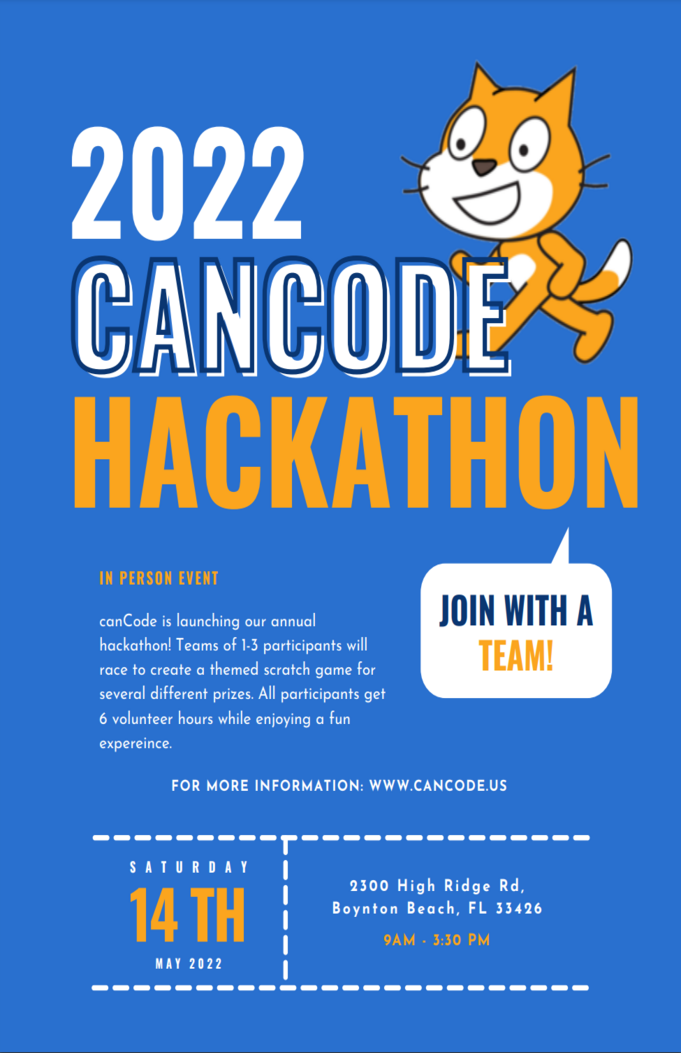
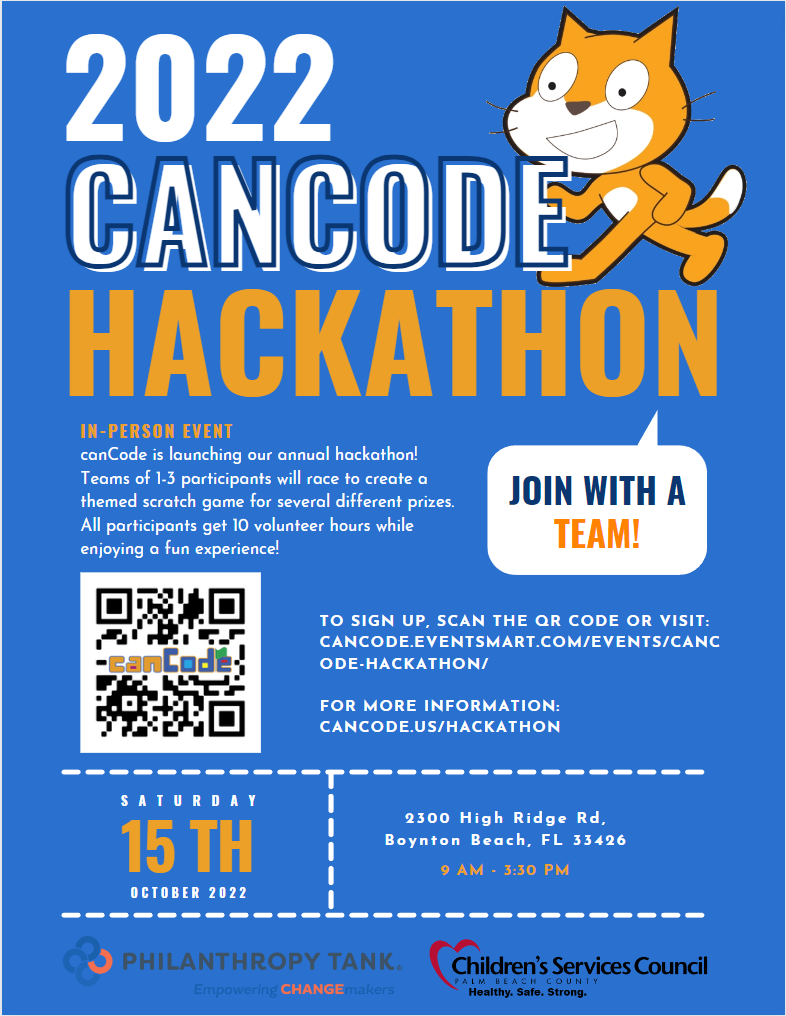
updating hackathon page

diff --git a/hackathon.html b/hackathon.html
@@ -57,7 +57,7 @@
 		<div class="divTableCell">
 			<center><h2><mark>LOCATION</mark></h2></center>	
 			<center><h3><mark>Address: 2300 High Ridge Rd, Boynton Beach, Florida, 33426, United States</mark></h3></center>
-			<center><h2><mark>October 15th</mark></h2></center>	
+			<center><h2><mark>October 15th, 9:00am - 3:30pm</mark></h2></center>	
 		</div>
 	</div>
 	</div>
@@ -69,8 +69,8 @@
 	<div class="divTableRow">
     	<div class="divTableCell">
 			<p>canCode is launching our annual hackathon! Teams of 1-3 participants will race to create a 
-				themed scratch game forseveral different prizes. All participants get <mark>6</mark> volunteer hours while enjoying a fun expereince.</p>
-			<img src="./Images/2022 hackathon schedule.png"></img>
+				themed scratch game for several different prizes. All participants get <mark>10</mark> volunteer hours while enjoying a fun expereince.</p>
+			<img src=""></img>
 		</div>
 		<div class="divTableCell">
 			<p>Our judges will follow a very specific rubric in order to judge submissions. You can find the rubric by clicking on the image below:</p>
@@ -81,7 +81,10 @@
 	<div class="divTableRow">
 		
 		<div class="divTableCell">
-			<img src="./Images/2022 hackathon awards.jpg"></img>
+			<br>
+			<img src="./Images/ht2022-prizes1.png"></img>
+			<br> <br>
+			<img src="./Images/ht2022-prizes2.png"></img>
 		</div>
 		<div class="divTableCell">
 			<img src="./Images/Hacakthon2022_flyer.png"></img>
